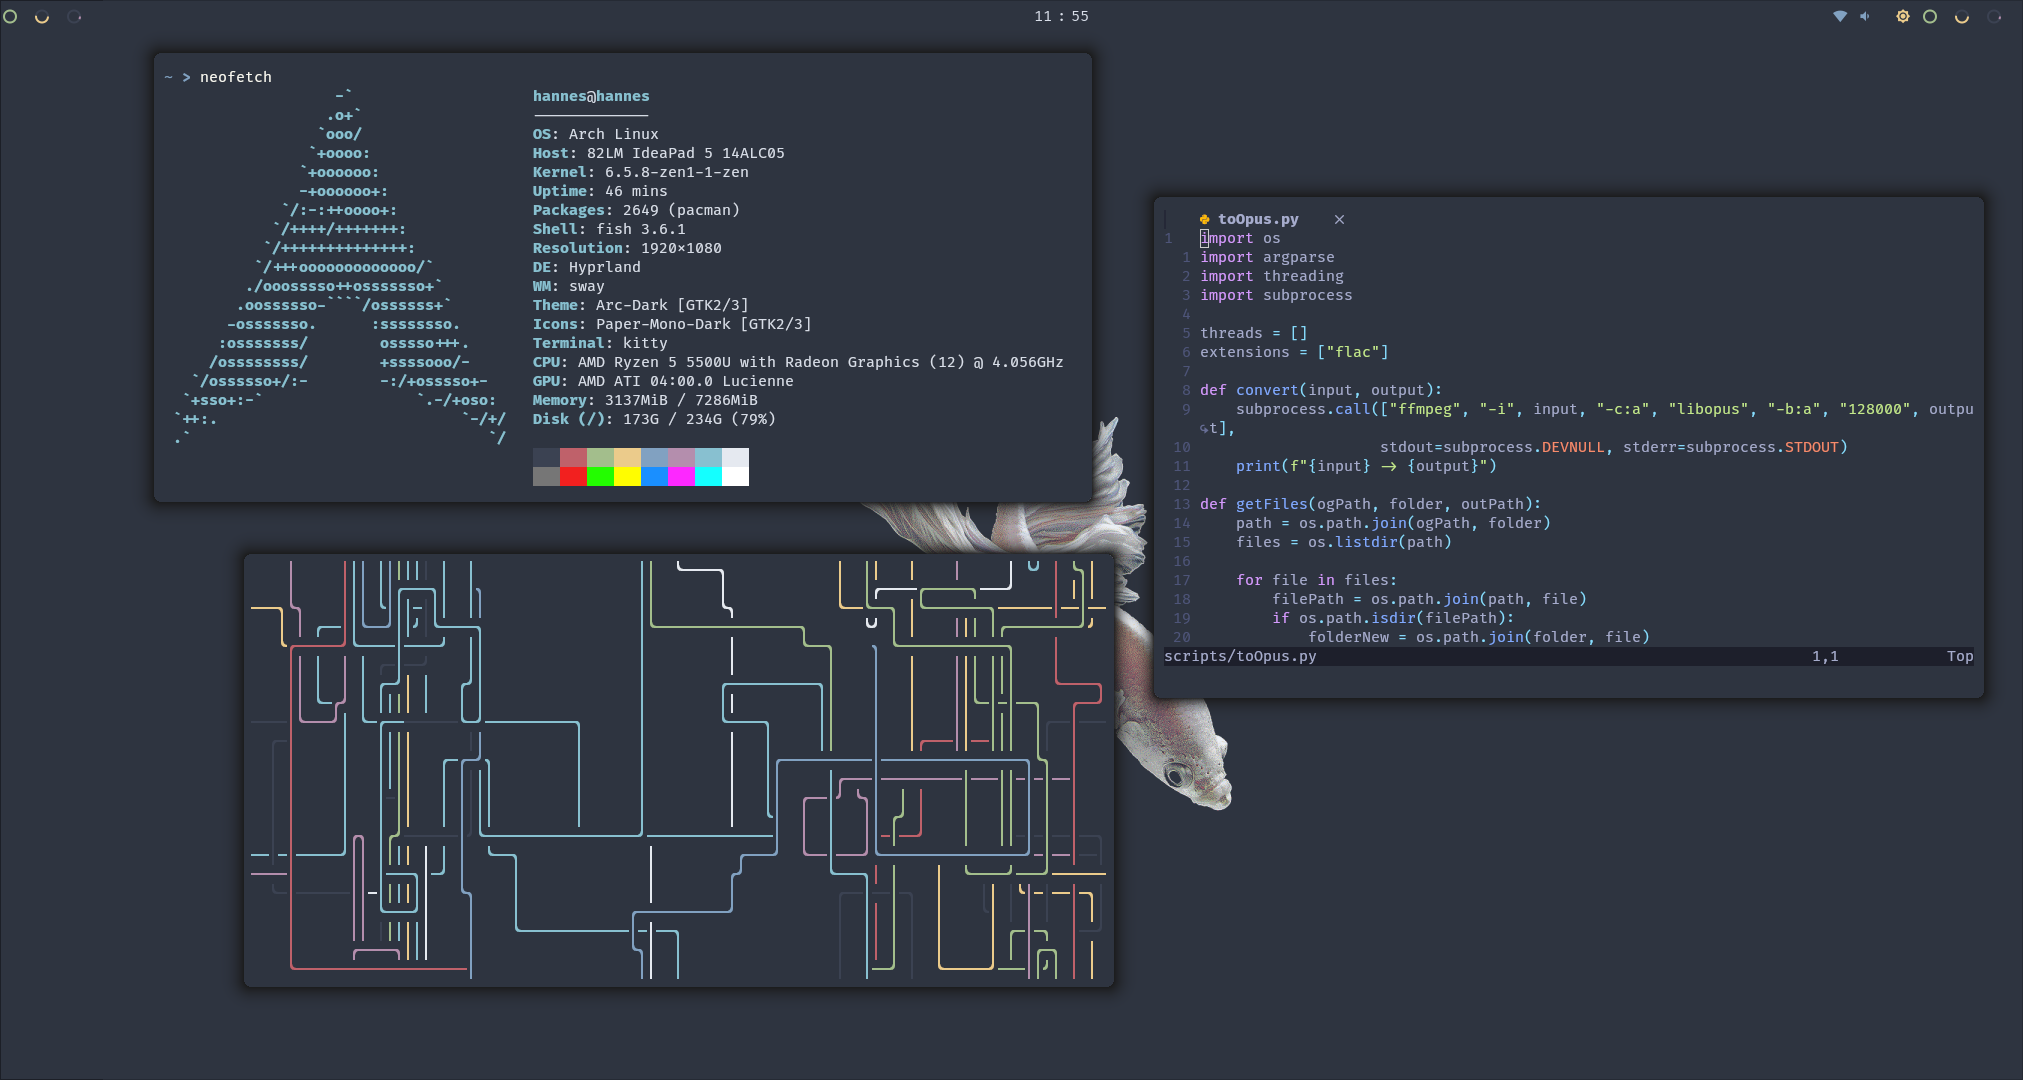
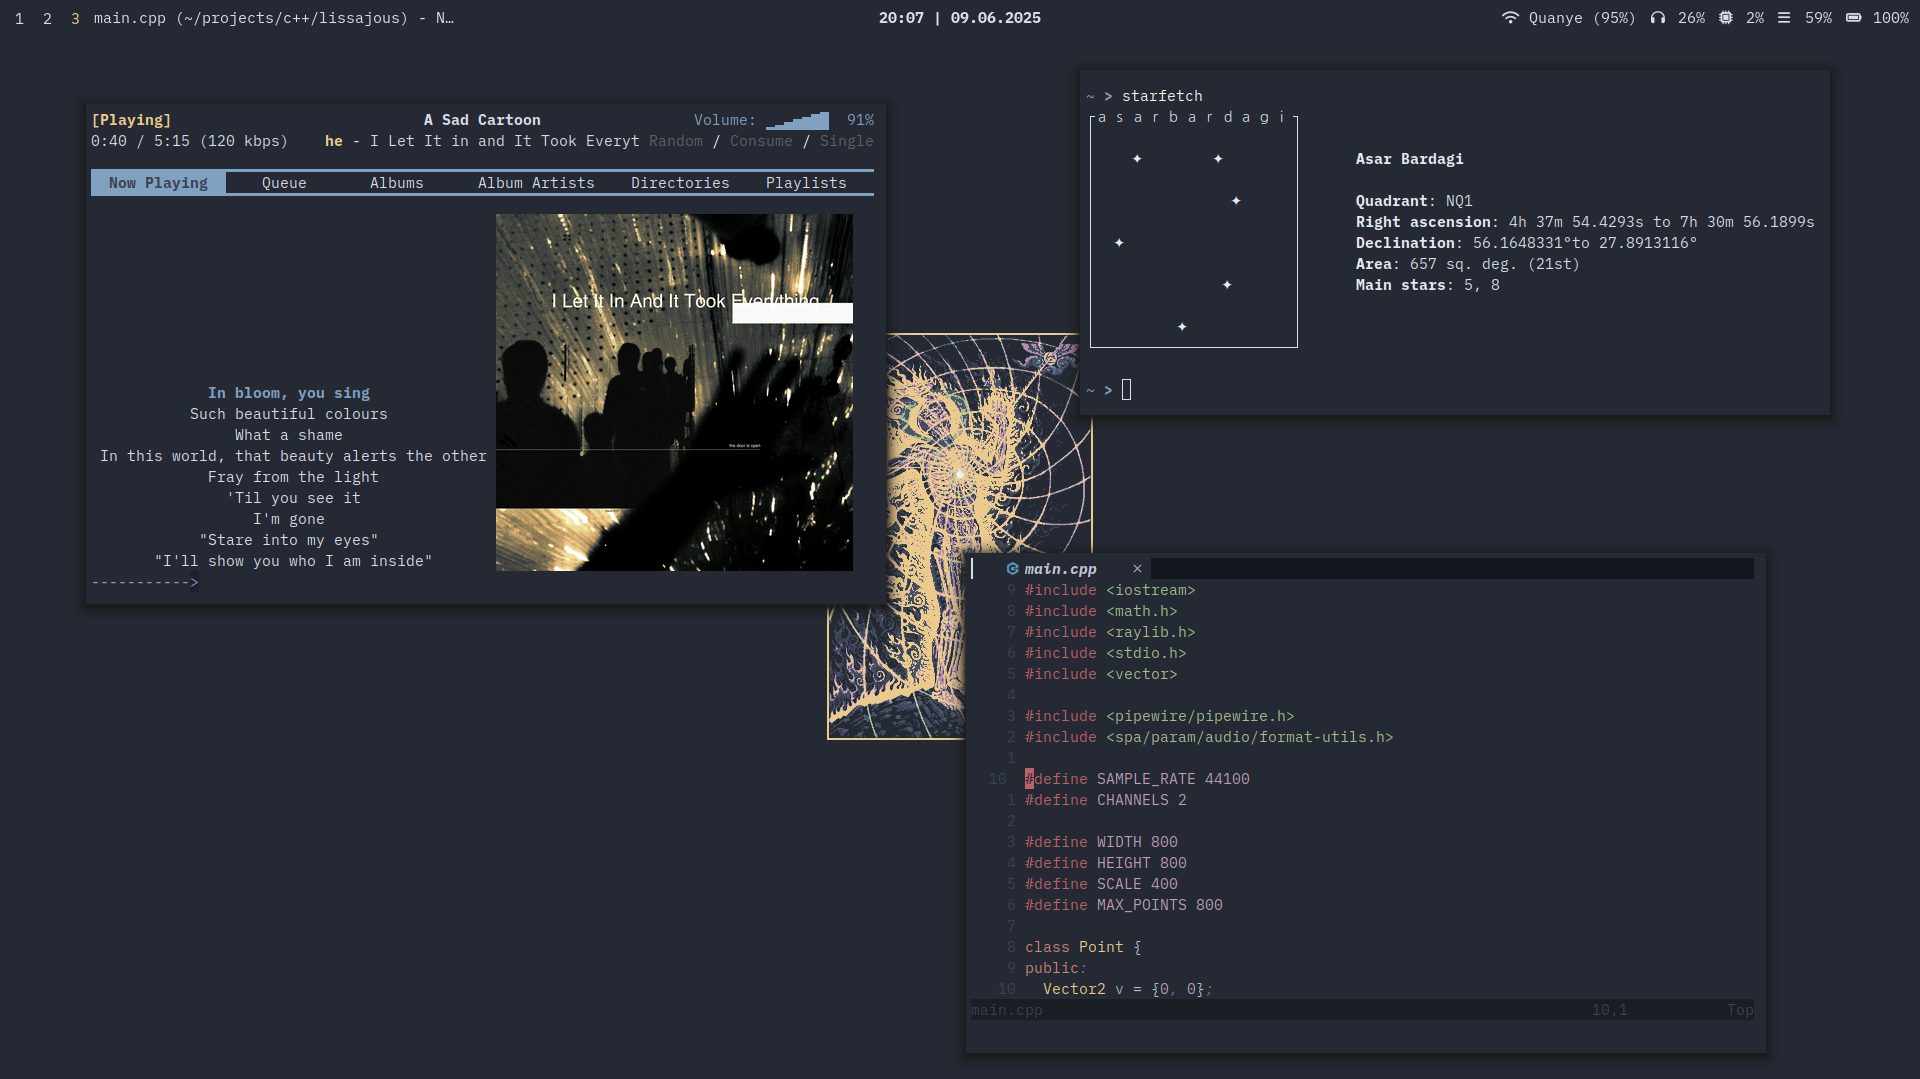
updates

diff --git a/.config/waybar/style.css b/.config/waybar/style.css
@@ -41,6 +41,11 @@ button:hover {
     border-top: 2px solid #c9545d;
 }
 
+#workspaces button.active {
+    color: @yellow;
+    /* border-bottom: 2px solid @orange; */
+}
+
 #clock,
 #battery,
 #cpu,
